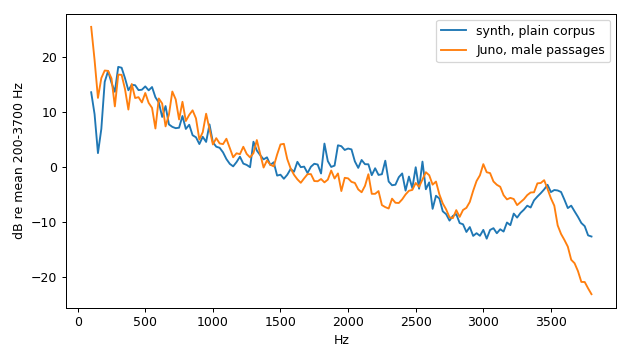
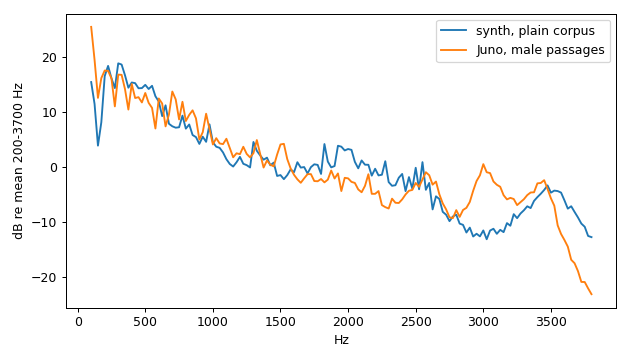
Regenerate the calibration report for the +12 dB low-end peak
The extra peak lifts the 200-330 Hz band 1.2 dB above the Juno male LTAS
(still within the 3 dB acceptance); no corrections applied, since the peak
was chosen by ear.

diff --git a/docs/calibration/report.md b/docs/calibration/report.md
@@ -37,11 +37,11 @@ Period scale (ROM $B930), range gain 2.0. 5th/50th/95th percentile: Juno male 60
 
 | Channel | Band (Hz) | synth − Juno (dB) | Suggested correction (dB) | Applied (CAL_LTAS_x_DB) |
 |---|---|---|---|---|
-| ALF | 200-330 | +0.4 | -0.4 | -11.0 |
-| A1 | 350-800 | +0.3 | -0.3 | -5.2 |
-| A2 | 900-2000 | +0.3 | -0.3 | -0.1 |
-| A3 | 2100-3000 | -0.1 | +0.1 | +3.2 |
-| AHF | 3100-3700 | +0.4 | -0.4 | -0.2 |
+| ALF | 200-330 | +1.2 | -1.2 | -11.0 |
+| A1 | 350-800 | +0.5 | -0.5 | -5.2 |
+| A2 | 900-2000 | +0.2 | -0.2 | -0.1 |
+| A3 | 2100-3000 | -0.2 | +0.2 | +3.2 |
+| AHF | 3100-3700 | +0.3 | -0.3 | -0.2 |
 
 Apply the suggested corrections with `calibrate.py fit --ltas`.
 
@@ -51,4 +51,4 @@ Apply the suggested corrections with `calibrate.py fit --ltas`.
 
 Rendered to `build/listening/` (not committed): every corpus text, plus `prose_voice_b`, `prose_hyp_b11` and `prose_hyp_b13` for the hypothesis switches, and `prose_prosody3` (the device's default prosody).
 
-b11 render level vs plain: +0.0 dB (RMS of `prose_hyp_b11` minus `prose`; CAL_B11_GAIN_DB -8.4 dB).
+b11 render level vs plain: +0.2 dB (RMS of `prose_hyp_b11` minus `prose`; CAL_B11_GAIN_DB -8.4 dB).
